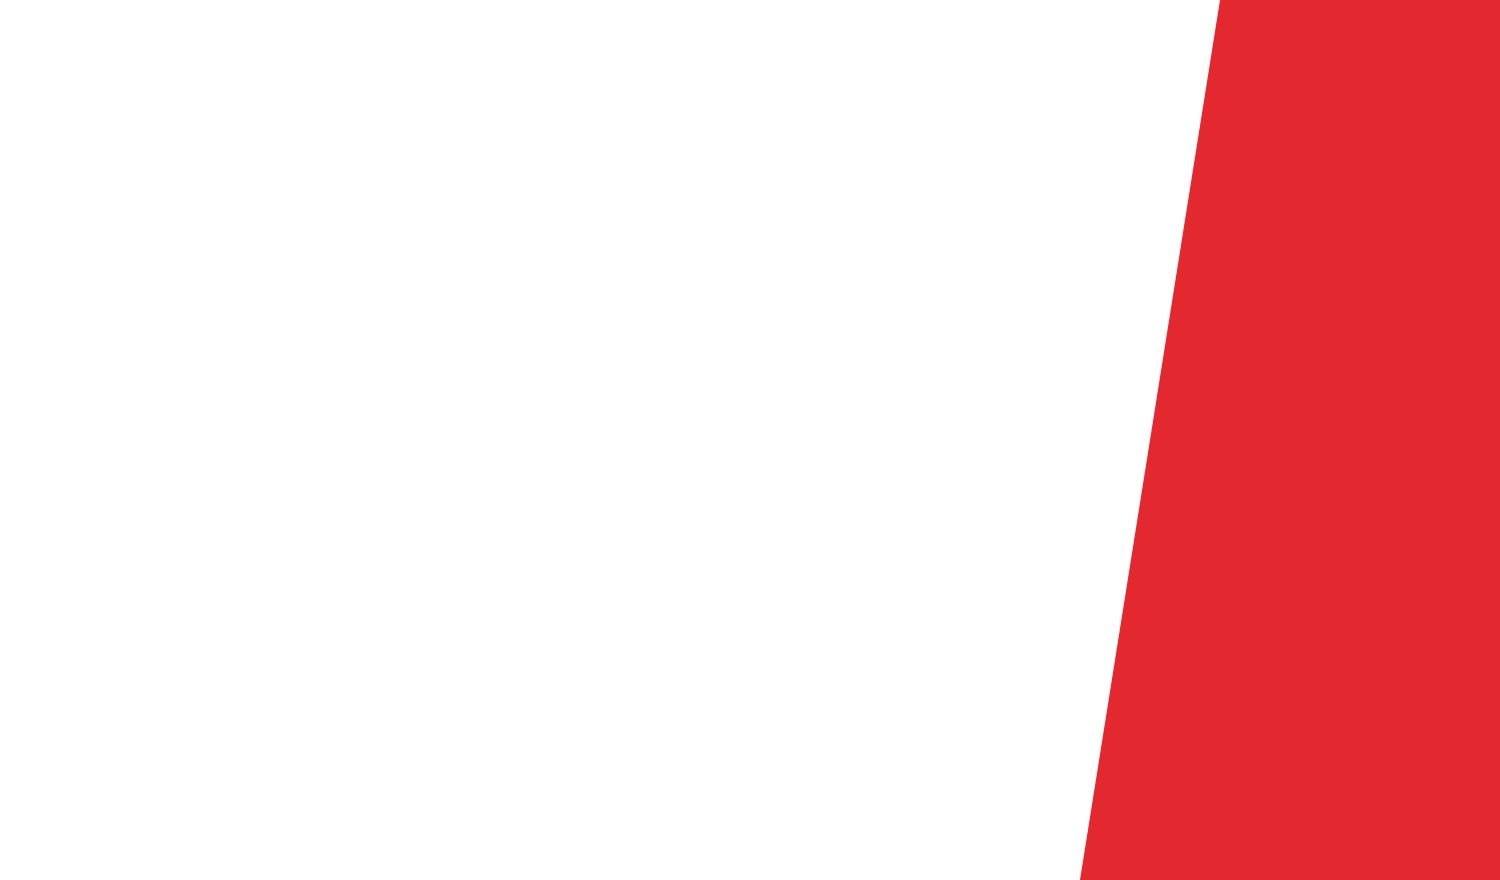
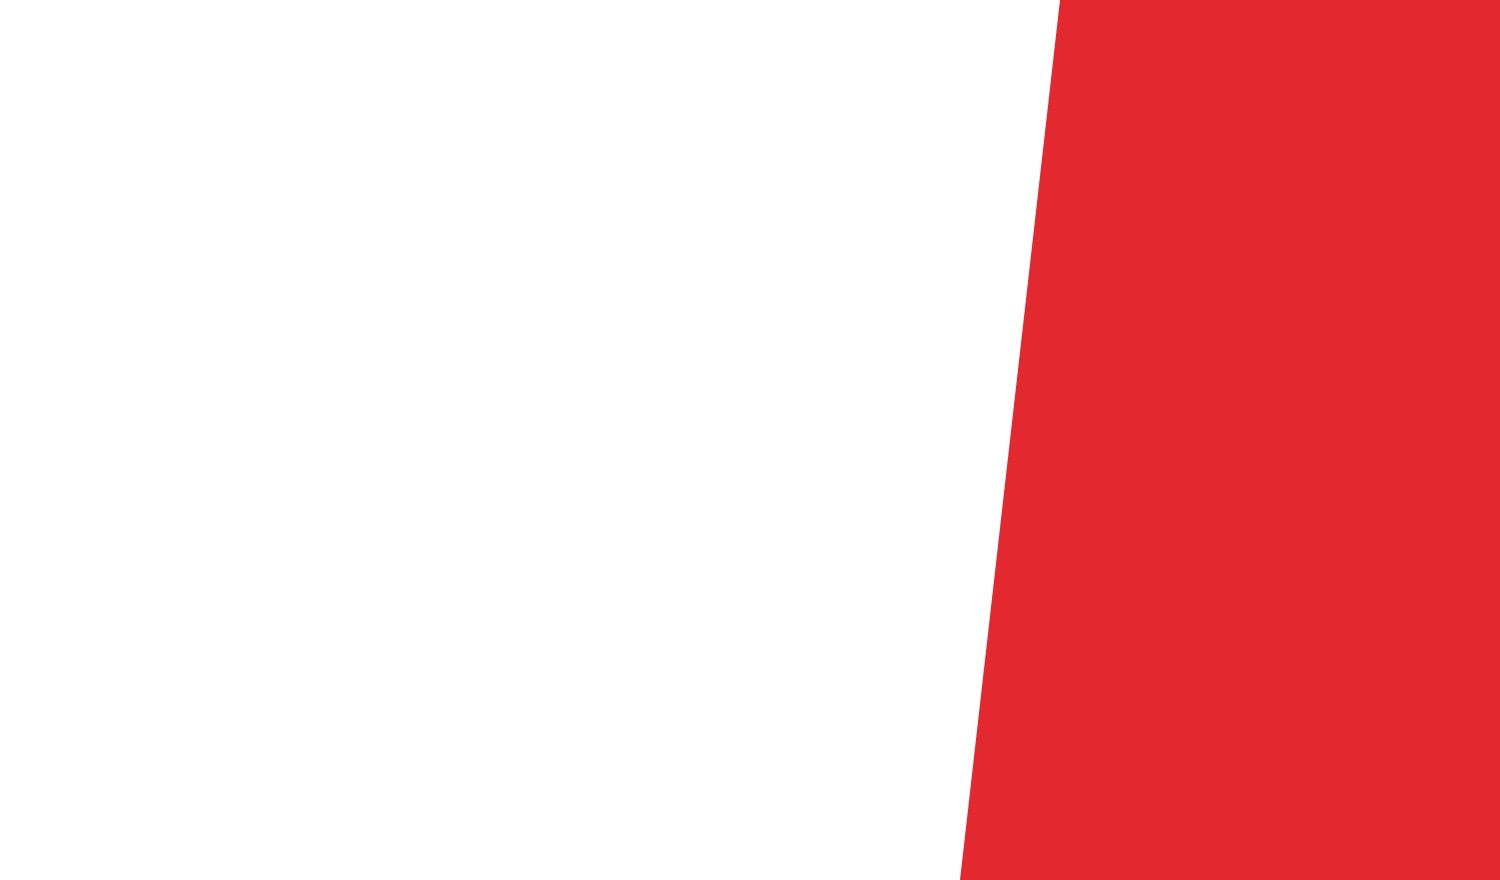
Replenishment email: compact item rows; wider header wedge for both emails

Changed region(s): [[0.6133, 0.0, 0.828, 1.0]]

diff --git a/src/lib/email.ts b/src/lib/email.ts
@@ -227,19 +227,20 @@ export function renderReplenishmentEmail(d: ReplenishmentEmailData): { subject: 
   const font = "font-family:'Helvetica Neue',Helvetica,Arial,sans-serif;";
   const subject = `Ready for a refill, ${d.firstName}? It's been ${d.daysSince} days`;
 
-  const itemRows = d.items.slice(0, 6).map((it, i, arr) => `
-<tr><td style="padding:18px 40px;${i < arr.length - 1 ? "border-bottom:1px solid #e5e7eb;" : ""}">
+  const itemRows = d.items.slice(0, 8).map((it, i, arr) => `
+<tr><td style="padding:12px 40px;${i < arr.length - 1 ? "border-bottom:1px solid #e5e7eb;" : ""}">
   <table width="100%" cellpadding="0" cellspacing="0" role="presentation"><tr>
-    <td width="46%" style="vertical-align:top;padding-right:22px;">
-      <a href="${site}/product/${esc(it.slug)}"><img src="${esc(it.image)}" width="280" alt="${esc(it.name)}" style="display:block;width:100%;max-width:280px;height:auto;border:0;border-radius:4px;background:#f3f4f6;"></a>
+    <td width="130" style="vertical-align:middle;padding-right:18px;">
+      <a href="${site}/product/${esc(it.slug)}"><img src="${esc(it.image)}" width="130" alt="${esc(it.name)}" style="display:block;width:130px;height:auto;border:0;border-radius:4px;background:#f3f4f6;"></a>
     </td>
-    <td style="vertical-align:top;">
-      <div style="${font}font-size:22px;font-weight:800;letter-spacing:-0.5px;color:#1a2340;line-height:1.1;">${esc(it.name)}</div>
-      ${it.detail ? `<div style="${font}font-size:14px;color:#4a6ea0;margin-top:4px;">${esc(it.detail)}</div>` : ""}
-      <div style="${font}font-size:11px;font-weight:800;letter-spacing:1.5px;color:#1a2340;margin-top:16px;">LAST ORDERED</div>
-      <div style="${font}font-size:24px;font-weight:800;color:#1a2340;line-height:1.1;">${esc(plural(it.qty, it.unit))}</div>
-      <table cellpadding="0" cellspacing="0" role="presentation" style="margin-top:14px;"><tr>
-        <td style="border:2px solid #e4282f;border-radius:3px;"><a href="${d.itemUrl(it)}" style="display:inline-block;${font}font-size:15px;font-weight:700;color:#e4282f;text-decoration:none;padding:9px 22px;">Reorder this item &rarr;</a></td>
+    <td style="vertical-align:middle;padding-right:16px;">
+      <div style="${font}font-size:16px;font-weight:800;letter-spacing:-0.3px;color:#1a2340;line-height:1.2;">${esc(it.name)}</div>
+      ${it.detail ? `<div style="${font}font-size:13px;color:#4a6ea0;margin-top:3px;">${esc(it.detail)}</div>` : ""}
+      <div style="${font}font-size:13px;color:#6b7280;margin-top:6px;">Last ordered: <span style="font-weight:800;color:#1a2340;">${esc(plural(it.qty, it.unit))}</span></div>
+    </td>
+    <td width="150" align="right" style="vertical-align:middle;white-space:nowrap;">
+      <table cellpadding="0" cellspacing="0" role="presentation" align="right"><tr>
+        <td style="border:2px solid #e4282f;border-radius:3px;"><a href="${d.itemUrl(it)}" style="display:inline-block;${font}font-size:13px;font-weight:700;color:#e4282f;text-decoration:none;padding:8px 14px;">Reorder &rarr;</a></td>
       </tr></table>
     </td>
   </tr></table>
@@ -260,7 +261,7 @@ export function renderReplenishmentEmail(d: ReplenishmentEmailData): { subject: 
     <tr><td style="padding:14px 40px 34px 40px;">
       <div style="${font}font-size:13px;font-weight:800;letter-spacing:2.5px;color:#e4282f;margin-bottom:10px;">YOUR NEXT ORDER, MADE EASY</div>
       <div style="${font}font-size:66px;line-height:0.96;font-weight:900;letter-spacing:-2.5px;color:#1a2340;">Ready for<br>a refill?</div>
-      <div style="${font}font-size:22px;font-weight:700;color:#1a2340;margin-top:22px;">Hi ${esc(d.firstName)}, how&rsquo;s your supply holding up?</div>
+      <div style="${font}font-size:22px;font-weight:700;color:#1a2340;margin-top:22px;max-width:430px;line-height:1.2;">Hi ${esc(d.firstName)}, how&rsquo;s your supply holding up?</div>
       <div style="${font}font-size:16px;color:#6b7280;line-height:1.45;margin-top:6px;max-width:440px;">It&rsquo;s been ${d.daysSince} days since your last order.<br>Here&rsquo;s what you stocked up on.</div>
     </td></tr>
   </table>
@@ -285,14 +286,15 @@ export function renderReplenishmentEmail(d: ReplenishmentEmailData): { subject: 
 </td></tr>
 
 <!-- LAST ORDER -->
-<tr><td style="padding:34px 40px 8px 40px;">
+<tr><td style="padding:30px 40px 6px 40px;">
   <div style="${font}font-size:40px;font-weight:900;letter-spacing:-1.5px;color:#1a2340;line-height:1;">Your last order.</div>
   <div style="${font}font-size:17px;color:#6b7280;margin-top:6px;">A familiar lineup. Ready when you are.</div>
 </td></tr>
 ${itemRows}
 
 <!-- KEEP STOCKED -->
-<tr><td bgcolor="#1a2340" style="background:#1a2340;padding:32px 40px;margin-top:10px;">
+<tr><td style="height:14px;line-height:14px;font-size:0;">&nbsp;</td></tr>
+<tr><td bgcolor="#1a2340" style="background:#1a2340;padding:32px 40px;">
   <div style="${font}font-size:38px;font-weight:900;letter-spacing:-1.5px;color:#ffffff;line-height:1;">Keep your business stocked.</div>
   <div style="${font}font-size:17px;color:#ffffff;margin-top:8px;">Bring your previous items into a new order and update what you need.</div>
   <table cellpadding="0" cellspacing="0" role="presentation" style="margin-top:18px;"><tr>
